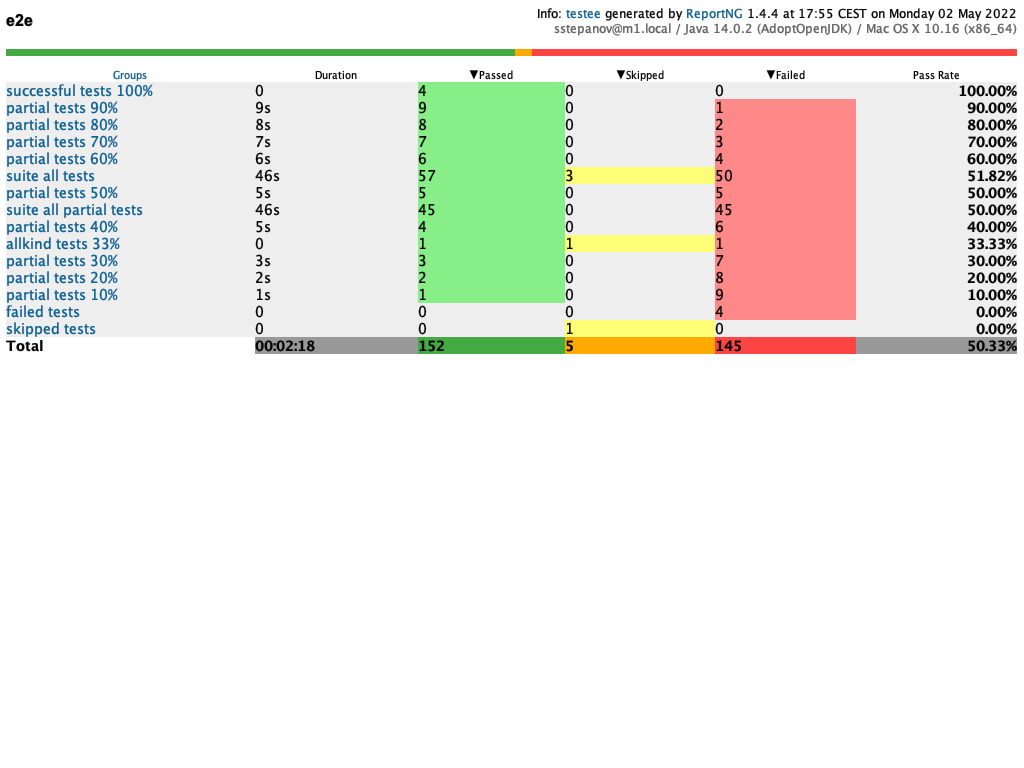
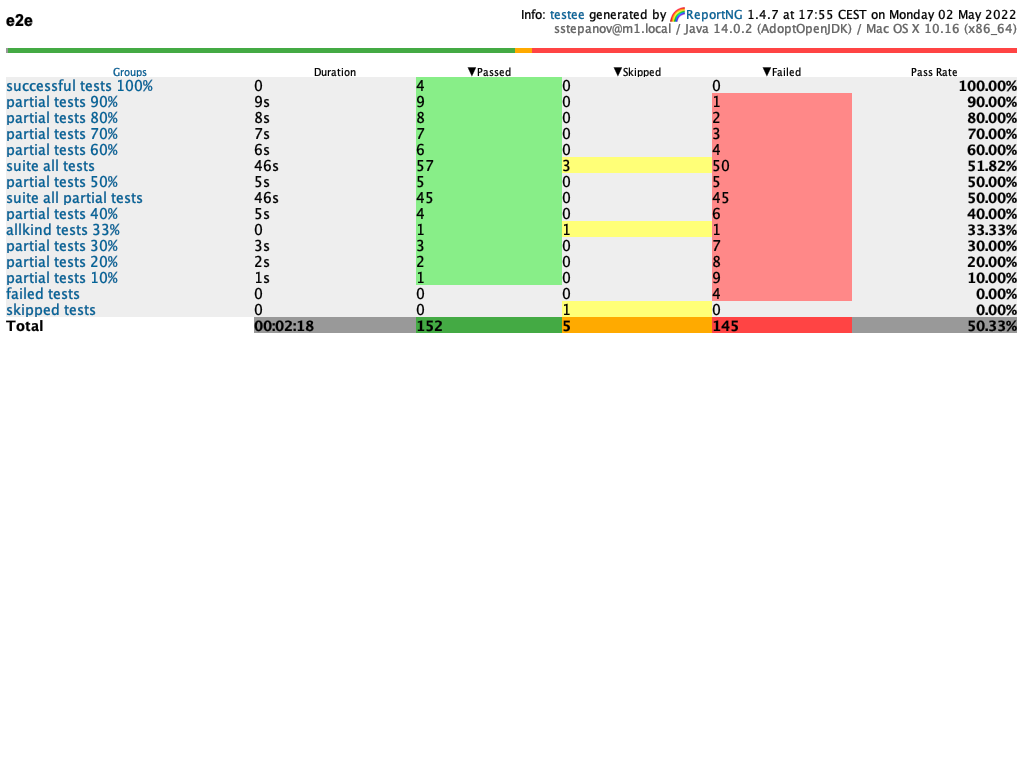
reportNG rainbow

Changed region(s): [[0.0, 0.0625, 1.0, 0.4688], [0.5, 0.0, 1.0, 0.0312]]

diff --git a/src/main/kotlin/testee/it/reportng/HTMLToBase64.kt b/src/main/kotlin/testee/it/reportng/HTMLToBase64.kt
@@ -148,7 +148,7 @@ object HTMLToBase64 {
 <table class="titleTable">
     <tr>
         <td class="h1">e2e</td>
-        <td id="meta">Info: <a href=https://github.com/hibissscus/testee target="_top">testee</a> generated by <a href="https://github.com/hibissscus/reportng" target="_top">ReportNG</a> 1.4.4 at 17:55 CEST on Monday 02 May 2022<br/><span id="systemInfo">sstepanov@m1.local&nbsp;/&nbsp;Java 14.0.2 (AdoptOpenJDK)&nbsp;/&nbsp;Mac OS X 10.16 (x86_64)</span></td>
+        <td id="meta">Info: <a href=https://github.com/hibissscus/testee target="_top">testee</a> generated by &#127752;<a href="https://github.com/hibissscus/reportng" target="_top">ReportNG</a> 1.4.7 at 17:55 CEST on Monday 02 May 2022<br/><span id="systemInfo">sstepanov@m1.local&nbsp;/&nbsp;Java 14.0.2 (AdoptOpenJDK)&nbsp;/&nbsp;Mac OS X 10.16 (x86_64)</span></td>
     </tr>
 </table>
 <table class="progressTable" border="0" cellspacing="0" cellpadding="0" style="width:101.34%;">
